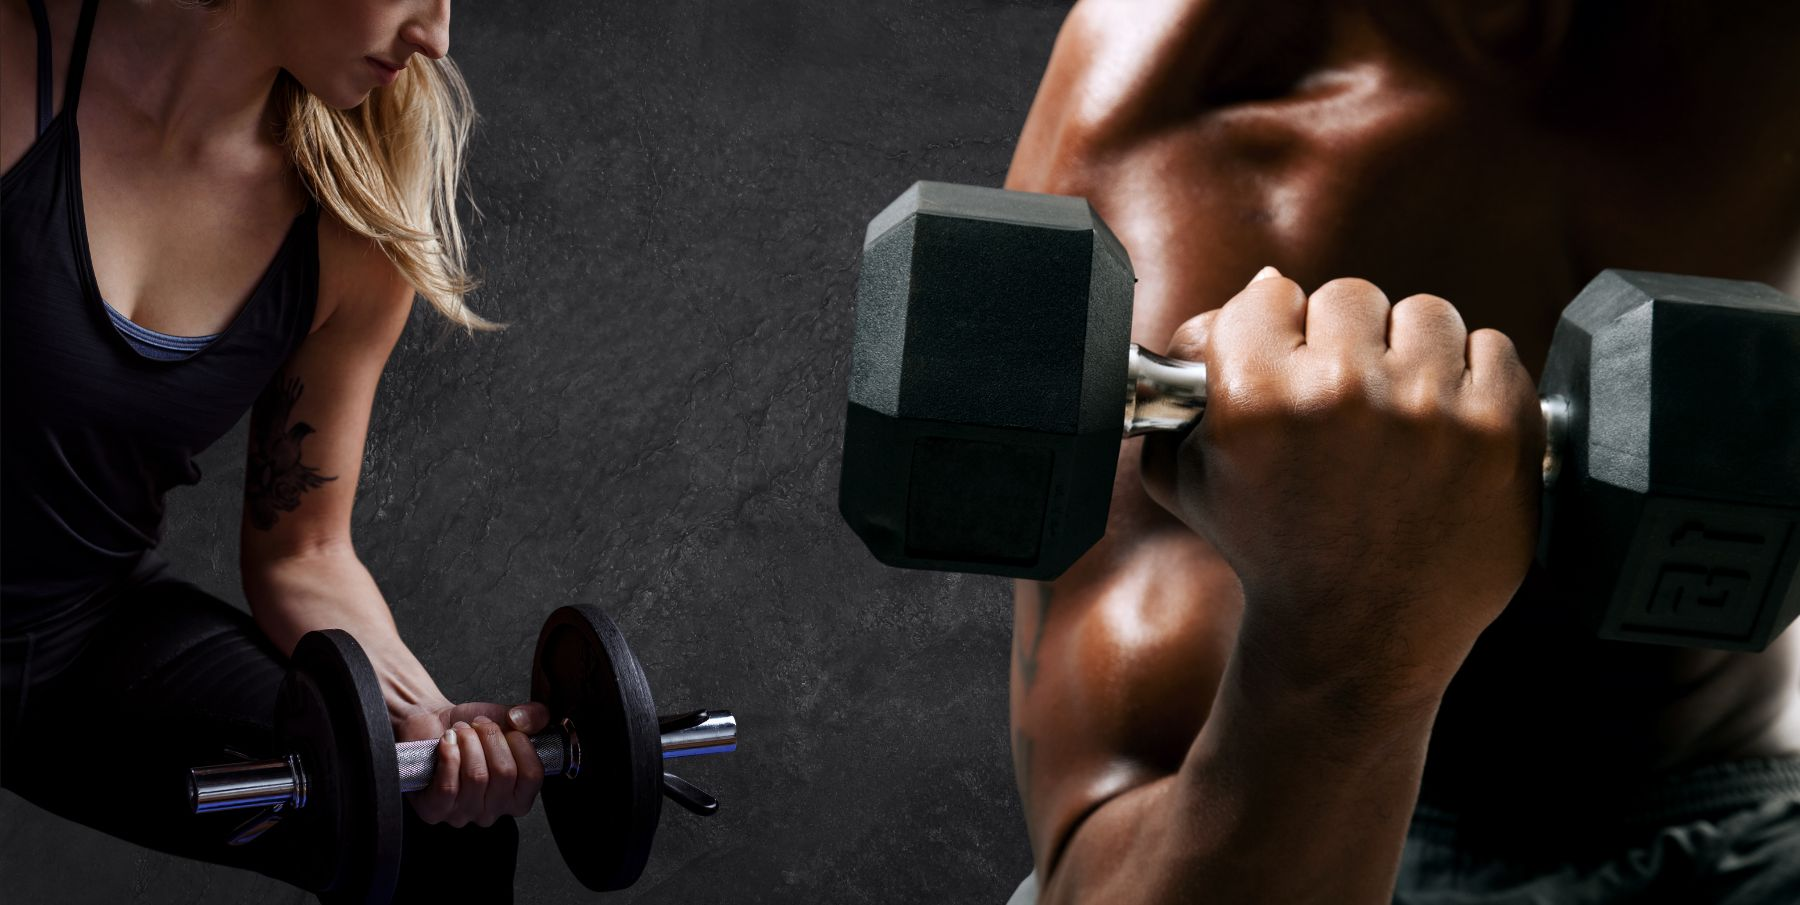
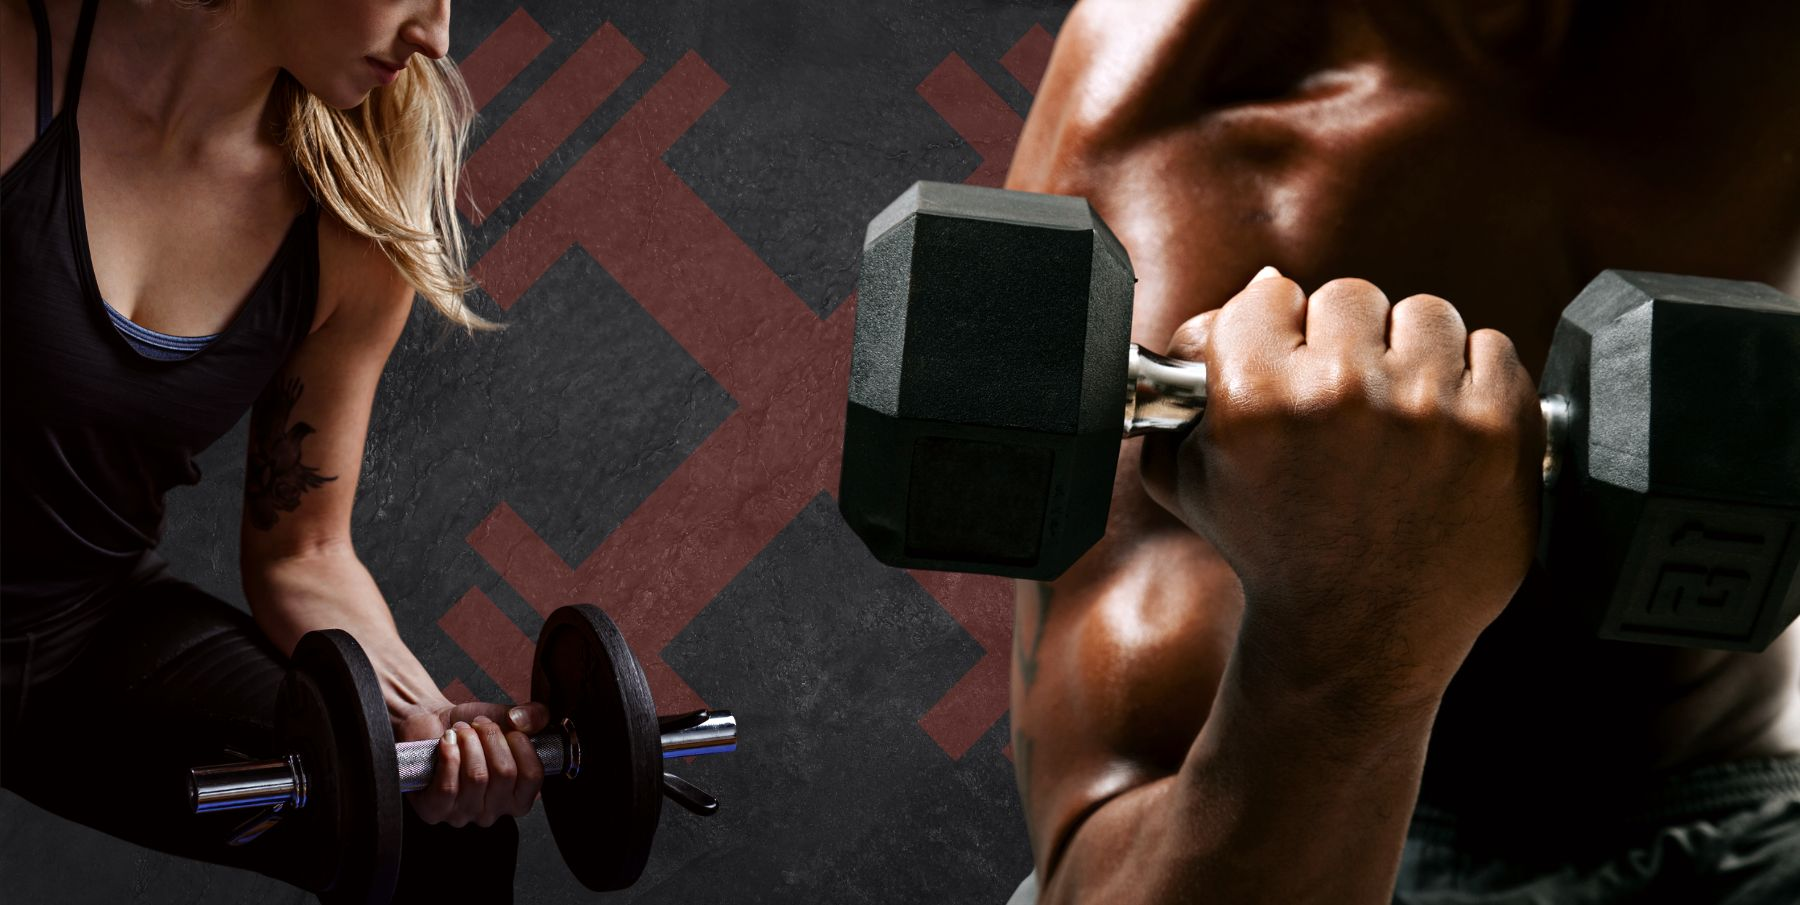
added static background to login & signup page + image updates

diff --git a/public/assets/css/main.css b/public/assets/css/main.css
@@ -135,6 +135,13 @@
 		line-height: 1.65em;
 		letter-spacing: -0.015em;
 	}
+	input{
+		color:black !important;
+	}
+
+	.alert-danger{
+		color:var(--main)
+	}
 
 	a {
 		-moz-transition: color 0.2s ease-in-out, border-bottom-color 0.2s ease-in-out;
@@ -2269,12 +2276,16 @@
 /* Box */
 
 	.box {
-		background: #000000;
+		
 		border-radius: 6px;
 		box-shadow: 0 2px 0 0 var(--light);
 		margin: 0 0 2em 0;
 		padding: 3em;
+		display: flex;
+    	flex-direction: column;
+    	align-items: center;
 	}
+	
 
 		.box > :last-child {
 			margin-bottom: 0;
@@ -2461,6 +2472,14 @@
 			}
 
 /* Image */
+ .bg-corner{
+	z-index: -7;
+	position: fixed;
+	top:0;
+	left:0;
+	width:50%;
+	
+ }
 
 	.image {
 		border-radius: 6px;
@@ -2765,7 +2784,7 @@
 		-webkit-transition: background-color 0.2s ease-in-out, color 0.2s ease-in-out;
 		-ms-transition: background-color 0.2s ease-in-out, color 0.2s ease-in-out;
 		transition: background-color 0.2s ease-in-out, color 0.2s ease-in-out;
-		background-color: #666;
+		background-color: var(--light);
 		border-radius: 6px;
 		border: 0;
 		color: #ffffff;
@@ -2784,14 +2803,14 @@
 		input[type="reset"]:hover,
 		input[type="button"]:hover,
 		.button:hover {
-			background-color: #737373;
+			background-color: var(--main);
 		}
 
 		input[type="submit"]:active,
 		input[type="reset"]:active,
 		input[type="button"]:active,
 		.button:active {
-			background-color: #595959;
+			background-color: var(--deep);
 		}
 
 		input[type="submit"].icon,
